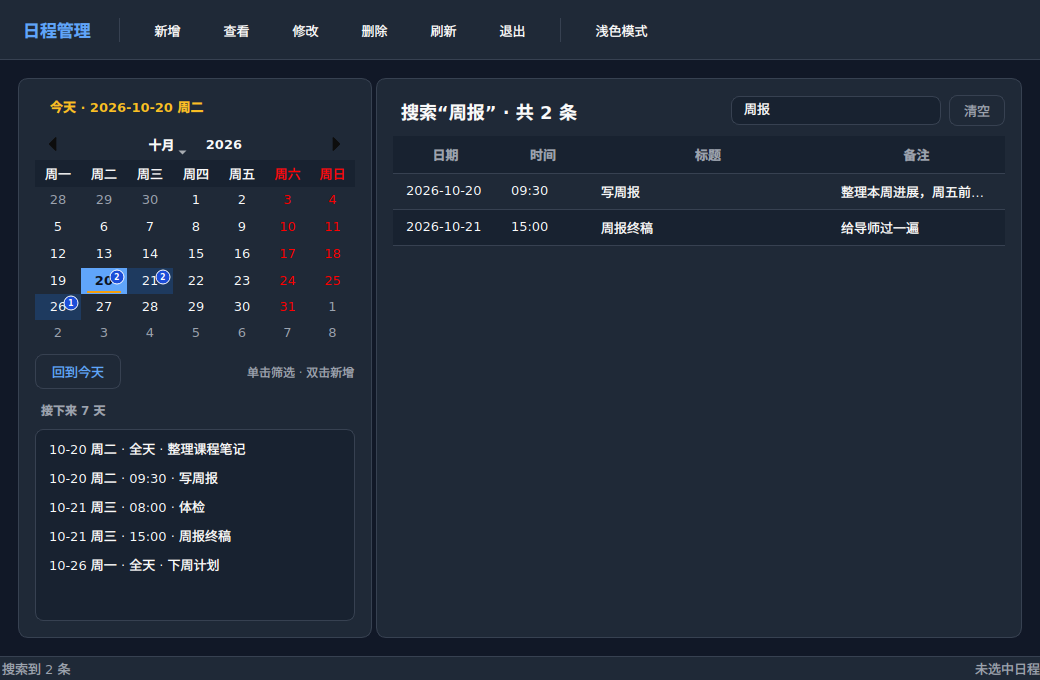
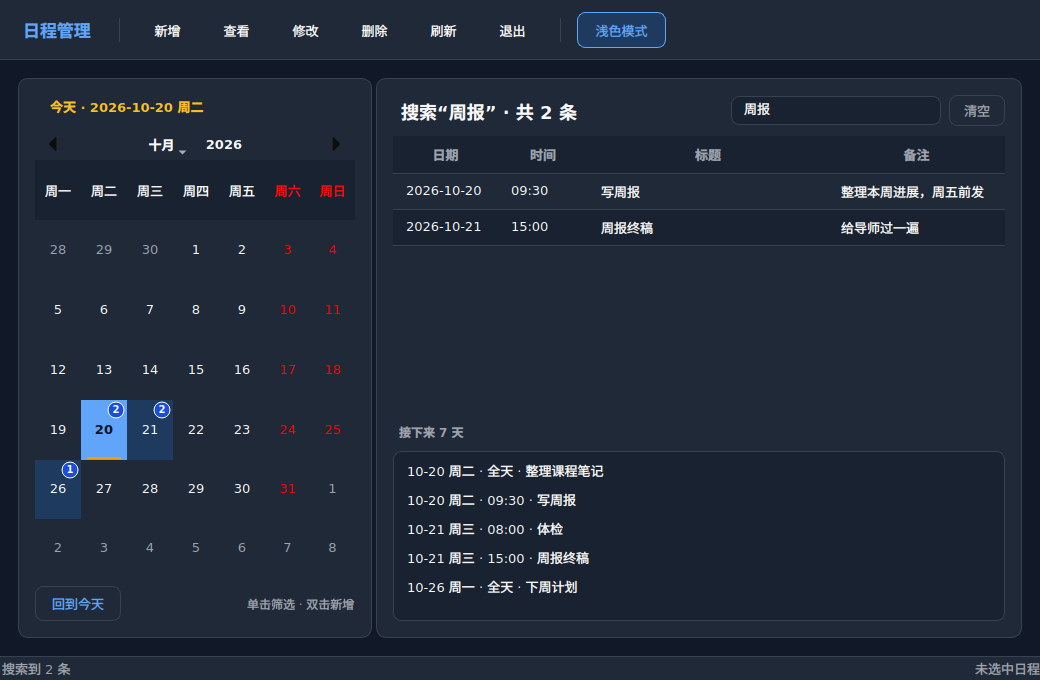
fix(ui): 修复搜索页日历被摘要压缩的布局
把「接下来 7 天」从左侧日历卡片移到右侧表格下方，日历恢复整卡高度（面板最小 360px），徽标缩到 16px 并保持右上角；摘要列表限制 110-170px。重拍浅色/深色搜索截图，并补上可复现的 scripts/shoot_search.py。

diff --git a/scripts/shoot_search.py b/scripts/shoot_search.py
@@ -1,0 +1,116 @@
+"""离屏重拍搜索页截图：固定 today=2026-10-20，预置 5 条跨日数据后搜索「周报」。
+
+用法：
+
+    QT_QPA_PLATFORM=offscreen uv run python scripts/shoot_search.py
+
+只用于 Linux 容器里的布局复核：容器装有 Noto Sans CJK，中文不会变成方块。
+它**不能替代** Windows 真机验收（字体、DPI、原生样式仍要人工看）。
+
+数据刻意覆盖三种情形：今天两条（含全天）、次日两条、第 6 天一条。这样一张图
+能同时看到日历徽标、搜索结果表格与「接下来 7 天」摘要的相对位置。
+"""
+
+from __future__ import annotations
+
+import datetime as dt
+import sys
+from pathlib import Path
+
+from PySide6.QtWidgets import QApplication, QTableView
+
+from schedule_management.dev_stub_service import DevStubScheduleService
+from schedule_management.ui.main_window import MainWindow
+
+TODAY = dt.date(2026, 10, 20)
+OUTPUT_DIR = Path(__file__).resolve().parents[1] / "docs" / "screenshots"
+
+#: (相对今天的天数, 时间文本, 标题, 备注)；时间留空表示全天。
+_SEED: tuple[tuple[int, str, str, str], ...] = (
+    (0, "09:30", "写周报", "整理本周进展，周五前发"),
+    (0, "", "整理课程笔记", "全天，不限时间"),
+    (1, "08:00", "体检", "空腹"),
+    (1, "15:00", "周报终稿", "给导师过一遍"),
+    (6, "", "下周计划", ""),
+)
+
+
+def _seed_service() -> DevStubScheduleService:
+    service = DevStubScheduleService()
+    for offset, time_text, title, notes in _SEED:
+        service.create_schedule(
+            title, (TODAY + dt.timedelta(days=offset)).isoformat(), time_text, notes
+        )
+    return service
+
+
+def _settle(app: QApplication, rounds: int = 5) -> None:
+    for _ in range(rounds):
+        app.processEvents()
+
+
+def _check(condition: bool, message: str) -> None:
+    """截图脚本也要自检：布局退化时先让脚本红，而不是生成一张坏图。"""
+    if not condition:
+        raise SystemExit(f"布局自检失败：{message}")
+
+
+def _report(window: MainWindow) -> None:
+    panel = window._calendar
+    calendar_view = panel.findChild(QTableView)
+    rows = [calendar_view.rowHeight(row) for row in range(6)] if calendar_view else []
+    print(f"窗口：{window.width()}x{window.height()}")
+    print(f"日历面板：{panel.height()}px，月历控件：{panel._calendar.height()}px")
+    print(f"日期行高：{rows}")
+    print(f"表格：{window._table.height()}px，摘要列表：{window._upcoming_list.height()}px")
+    print(f"搜索结果：{window._table.rowCount()} 行；摘要：{window._upcoming_list.count()} 条")
+
+
+def _save(window: MainWindow, name: str) -> Path:
+    OUTPUT_DIR.mkdir(parents=True, exist_ok=True)
+    path = OUTPUT_DIR / name
+    if not window.grab().save(str(path)):
+        raise SystemExit(f"截图保存失败：{path}")
+    return path
+
+
+def main() -> int:
+    app = QApplication(sys.argv)
+    window = MainWindow(service=_seed_service(), clock=lambda: TODAY)
+    window.resize(1040, 680)
+    window.show()
+    _settle(app)
+
+    # 主题存在 QSettings 里，先显式回到浅色，避免上一次运行留下的深色状态。
+    window._on_dark_toggled(False)
+    window._search_input.setText("周报")
+    window._trigger_search()
+    _settle(app)
+
+    _check(window._table.rowCount() == 2, f"搜索「周报」应有 2 行，实际 {window._table.rowCount()}")
+    _check(
+        window._upcoming_list.count() == 5,
+        f"未来 7 天应有 5 条，实际 {window._upcoming_list.count()}",
+    )
+    _check(window._calendar.height() >= 360, f"日历面板被压到 {window._calendar.height()}px")
+    _check(
+        110 <= window._upcoming_list.height() <= 170,
+        f"摘要列表高度 {window._upcoming_list.height()}px 不在 110 到 170 之间",
+    )
+
+    _report(window)
+    print(f"浅色截图：{_save(window, 'search-light-2026-10-20.png')}")
+
+    window._on_dark_toggled(True)
+    _settle(app)
+    print(f"深色截图：{_save(window, 'search-dark-2026-10-20.png')}")
+
+    window.close()
+    return 0
+
+
+__all__ = ["main"]
+
+
+if __name__ == "__main__":
+    raise SystemExit(main())

diff --git a/src/schedule_management/ui/main_window.py b/src/schedule_management/ui/main_window.py
@@ -66,8 +66,8 @@ _CARD_MARGIN: Final = 16
 _OUTER_MARGIN: Final = 18
 _SEARCH_DEBOUNCE_MS: Final = 250
 _SEARCH_INPUT_WIDTH: Final = 210
-_UPCOMING_MIN_HEIGHT: Final = 140
-_UPCOMING_MAX_HEIGHT: Final = 210
+_UPCOMING_MIN_HEIGHT: Final = 110
+_UPCOMING_MAX_HEIGHT: Final = 170
 
 _BUTTONS: Final = (
     ("create", "新增", "新增一条日程"),
@@ -193,11 +193,8 @@ class MainWindow(QMainWindow):
         calendar_layout = QVBoxLayout(calendar_card)
         calendar_layout.setContentsMargins(_CARD_MARGIN, _CARD_MARGIN, _CARD_MARGIN, _CARD_MARGIN)
         calendar_layout.setSpacing(10)
+        # 摘要不再塞进左卡片：日历拿到整张卡片的高度，日期行与徽标才有呼吸空间。
         calendar_layout.addWidget(self._calendar, 1)
-        upcoming_title = QLabel(_SECTION_UPCOMING, calendar_card)
-        upcoming_title.setObjectName("SectionTitle")
-        calendar_layout.addWidget(upcoming_title)
-        calendar_layout.addWidget(self._upcoming_list)
 
         right_card = QFrame(self)
         right_card.setObjectName("Card")
@@ -211,6 +208,12 @@ class MainWindow(QMainWindow):
         title_row.addWidget(self._clear_search_button)
         right_layout.addLayout(title_row)
         right_layout.addWidget(self._table, 1)
+
+        # 摘要放在表格下方：搜索态下右侧只剩两行结果，原来那段空白正好被摘要填上。
+        upcoming_title = QLabel(_SECTION_UPCOMING, right_card)
+        upcoming_title.setObjectName("SectionTitle")
+        right_layout.addWidget(upcoming_title)
+        right_layout.addWidget(self._upcoming_list)
 
         splitter = QSplitter(Qt.Orientation.Horizontal, self)
         splitter.setChildrenCollapsible(False)

diff --git a/src/schedule_management/ui/calendar_view.py b/src/schedule_management/ui/calendar_view.py
@@ -96,7 +96,7 @@ class _CountCalendar(QCalendarWidget):
             if total is None:
                 return
 
-            side = min(18, max(12, min(rect.width(), rect.height()) - 12))
+            side = min(16, max(12, min(rect.width(), rect.height()) - 12))
             badge = QRect(rect.right() - side - 2, rect.top() + 2, side, side)
             # 徽标自带一圈与文字同色的描边：今天被选中时格子也是蓝底，
             # 纯蓝圆点会整块“消失”，描边让它仍然看得出是个独立的徽标。
@@ -146,6 +146,9 @@ class CalendarPanel(QWidget):
         self._today = today
         self._counts: dict[dt.date, int] = {}
         self._dark = False
+
+        # 左卡片只放日历后仍有足够高度；360 是日期行不再被压扁的下限。
+        self.setMinimumHeight(360)
 
         self._calendar = _CountCalendar(self)
         self._calendar.setFirstDayOfWeek(Qt.DayOfWeek.Monday)

diff --git a/docs/figures/ui-interaction.md b/docs/figures/ui-interaction.md
@@ -52,15 +52,15 @@
 
 | 区域 | Qt 控件 | 职责 |
 | --- | --- | --- |
-| ① 日历选择区 | `QCalendarWidget` + `QLabel#SectionTitle` + `QListWidget#UpcomingList` | 显示月历、跨月前后缀日期（控件内建）、切换月份、回到今天；有日程的日期显示底色与右上角条数徽标，今天以琥珀色加粗标记；日历下方是「接下来 7 天」摘要，点击条目跳到对应日期并选中该日程 |
+| ① 日历选择区 | `QCalendarWidget` | 显示月历、跨月前后缀日期（控件内建）、切换月份、回到今天；有日程的日期显示底色与右上角条数徽标，今天以琥珀色加粗标记；日历占满整张左卡片 |
 | ② 当前日期条 | `QLabel#DayHeading` + `QLineEdit#SearchInput` + `QPushButton#ClearSearch` | 显示当前筛选日期与当天日程条数，上方另有 `QLabel#TodayLabel` 显示「今天 · 日期 周几」；搜索时标题改为「搜索“关键词” · 共 N 条」；右侧搜索框按标题/备注查全部日程，250 ms 防抖，回车立即搜索，`Ctrl+F` 聚焦，清空按钮回到当天 |
-| ③ 日程列表 | `QTableWidget` | **四列（日期 / 时间 / 标题 / 备注）**，无网格、隔行底色、行高 36、表头 38；日期列 105 px、时间列 90 px、标题列 240 px、备注列吃掉剩余宽度；每行 `Qt.UserRole` 绑定 `schedule_id`，按时间、id 确定性排序 |
+| ③ 日程列表 | `QTableWidget` + `QLabel#SectionTitle` + `QListWidget#UpcomingList` | **四列（日期 / 时间 / 标题 / 备注）**，无网格、隔行底色、行高 36、表头 38；日期列 105 px、时间列 90 px、标题列 240 px、备注列吃掉剩余宽度；每行 `Qt.UserRole` 绑定 `schedule_id`，按时间、id 确定性排序；表格下方是「接下来 7 天」摘要，点击条目跳到对应日期并选中该日程 |
 | ④ CRUD 工具栏 | `QToolBar` + `QAction` × 6 | 左侧品牌 `QLabel#Brand`，其后新增、查看、修改、删除、刷新、退出；最右侧是可勾选的「深色模式 / 浅色模式」开关，**统一置于画布上侧** |
 | ⑤ 状态栏 | `QStatusBar`（内含 `QLabel`） | 显示最近一次操作结果与当前选中项 |
 
 控件列的 Qt 类名是「推荐实现」，不是契约本身；契约是每行的职责与第 5 节的行为。换用 `QTableView + QAbstractTableModel` 这类 Model/View 写法同样允许，只要③的行为不变。
 
-**搜索与摘要的布局约束。** 搜索框放在②的右侧、与日期标题同一行，不占工具栏：它属于列表区的筛选条件，不是全局命令。输入只负责启动 250 ms 防抖计时器，查询永远经 `controller.set_search` 发出，窗口不直接调用服务。③ 的日期列是搜索跨日期的必要信息——没有它，用户无法判断一条结果属于哪一天，修改时也无从回填正确日期。① 下方的摘要列表固定显示今天起 7 天（含今天），空时用一条不可选中的占位项说明“未来 7 天没有日程”。
+**搜索与摘要的布局约束。** 搜索框放在②的右侧、与日期标题同一行，不占工具栏：它属于列表区的筛选条件，不是全局命令。输入只负责启动 250 ms 防抖计时器，查询永远经 `controller.set_search` 发出，窗口不直接调用服务。③ 的日期列是搜索跨日期的必要信息——没有它，用户无法判断一条结果属于哪一天，修改时也无从回填正确日期。① 的日历占满左卡片（面板最小高度 360 px），不再被摘要挤压；③ 表格下方的摘要列表固定显示今天起 7 天（含今天），最小高度 110 px、最大 170 px，空时用一条不可选中的占位项说明“未来 7 天没有日程”。
 
 配色与控件样式集中在 `ui/theme.py`，浅色 / 深色两套色板由 `stylesheet(dark)` 给出；`main_window.py` 负责套用 QSS 与 `QPalette`，`calendar_view.py` 从同一色板取日历自绘（今天、有日程底色、徽标）的颜色。深色不是「把白底换成黑底」：卡片比页面底色亮一档、边框再亮一档，正文与弱化文字分别保持可读对比度；今天在有日程时用浅琥珀底叠在蓝色标记之上，两个信息都保留。
 
@@ -162,7 +162,7 @@
 | V-20 | F-01 | 启动程序，观察今天；再点「回到今天」 | 今天以琥珀色加粗标记（今天被选中时格底仍有琥珀短线），顶部显示「今天 · 日期 周几」；点「回到今天」筛回当天 |
 | V-21 | 工程增强 | 点工具栏「深色模式」，关闭程序后重新启动 | 立即切换为深色主题（按钮文字变为「浅色模式」）；重启后仍为深色，日历、表格、状态栏没有浅色残留 |
 | V-22 | F-03 / 工程增强 | 在搜索框输入「周报」并回车；再点「清空」 | 列表显示所有日期中标题或备注含「周报」的条目，每行日期列显示 `YYYY-MM-DD`，标题变为「搜索“周报” · 共 N 条」；选中其中一条点「修改」，日期回填为该行日期而不是当前筛选日期；点「清空」后搜索框为空、标题恢复当天日期、列表回到当天 |
-| V-23 | F-01 / 工程增强 | 观察左侧「接下来 7 天」列表，点击其中一条 | 列表按日期顺序显示今天起 7 天（含今天）的日程，条目形如 `10-20 周二 · 全天 · 整理课程笔记`；点击后右侧切到该日期并选中对应行；7 天内没有日程时显示「未来 7 天没有日程」而不是空白 |
+| V-23 | F-01 / 工程增强 | 观察右侧表格下方「接下来 7 天」列表，点击其中一条 | 列表按日期顺序显示今天起 7 天（含今天）的日程，条目形如 `10-20 周二 · 全天 · 整理课程笔记`；点击后切到该日期并选中对应行；7 天内没有日程时显示「未来 7 天没有日程」而不是空白 |
 
 V-10 与 V-11 是界面层的**核心断言**，必须用测试替身验证「服务调用次数为 0」，不能只靠肉眼看列表没变。V-04 与 V-16 是一组对照：**同一个字段，能识别的写法直接通过，不能识别的才报错**——两条都要跑，才能证明界面确实没有在前端先行拦截。
 

diff --git a/docs/screenshots/README.md b/docs/screenshots/README.md
@@ -71,9 +71,12 @@ uv run python scripts/shoot_ui.py
 当天 09:30「写周报」、当天全天「整理课程笔记」、次日 08:00「体检」、次日 15:00「周报终稿」、
 10-26 全天「下周计划」。在搜索框输入「周报」并回车后截取。
 
+复现：`QT_QPA_PLATFORM=offscreen uv run python scripts/shoot_search.py`（脚本会自检日历高度、
+摘要列表高度与结果条数，布局退化时直接失败而不是生成坏图）。
+
 | 文件 | 对应验收项 | 操作 | 预期结果（＝实际结果） |
 | --- | --- | --- | --- |
-| `search-light-2026-10-20.png` | V-22、V-23 | 浅色主题，搜索「周报」 | 标题「搜索“周报” · 共 2 条」；表格两行日期分别为 `2026-10-20` 与 `2026-10-21`，其余两列是时间/标题/备注；左侧「接下来 7 天」列出 5 条，含今天、次日与 10-26 |
+| `search-light-2026-10-20.png` | V-22、V-23 | 浅色主题，搜索「周报」 | 标题「搜索“周报” · 共 2 条」；表格两行日期分别为 `2026-10-20` 与 `2026-10-21`，其余三列是时间/标题/备注；右侧表格下方「接下来 7 天」列出 5 条，含今天、次日与 10-26；日历占满左卡片，日期行约 60 px，徽标不压日期 |
 | `search-dark-2026-10-20.png` | V-21、V-22 | 同一状态点「深色模式」 | 搜索框、清空按钮、结果表格与摘要列表整体转深色，文字与边框对比度正常，没有浅色残留 |
 
 环境同样是 Linux + `QT_QPA_PLATFORM=offscreen`，容器内装有 Noto Sans CJK；窗口 1040×680。

diff --git a/README.md b/README.md
@@ -26,7 +26,7 @@
 - 🌤 **全天日程**：时间留空即为全天，列表显示“全天”，并排在同日定时日程之前；
 - 📅 **日历筛选**：左侧月历选择日期，右侧列表实时刷新；
 - 🔎 **全局搜索**：顶部搜索框按标题或备注查找全部日程，结果带日期列、可跨日期查看与修改；`%`、`_` 等字符按字面量匹配，清空即回到当天；
-- 🗓 **未来 7 天摘要**：左侧日历下方列出今天起 7 天的日程，点击条目跳到对应日期并选中该条；
+- 🗓 **未来 7 天摘要**：右侧列表下方列出今天起 7 天的日程，点击条目跳到对应日期并选中该条；
 - 🟦 **日历日程标记**：有日程的日期显示底色与条数徽标（超过 9 条显示 `9+`），翻月自动刷新当月标记；
 - ⭐ **今天高亮**：今天在日历上以琥珀色标记，顶部显示「今天 · 日期」，随时可点「回到今天」；
 - 🌗 **深色模式**：工具栏一键切换浅色 / 深色主题，选择写入本地设置，重启后保持；
